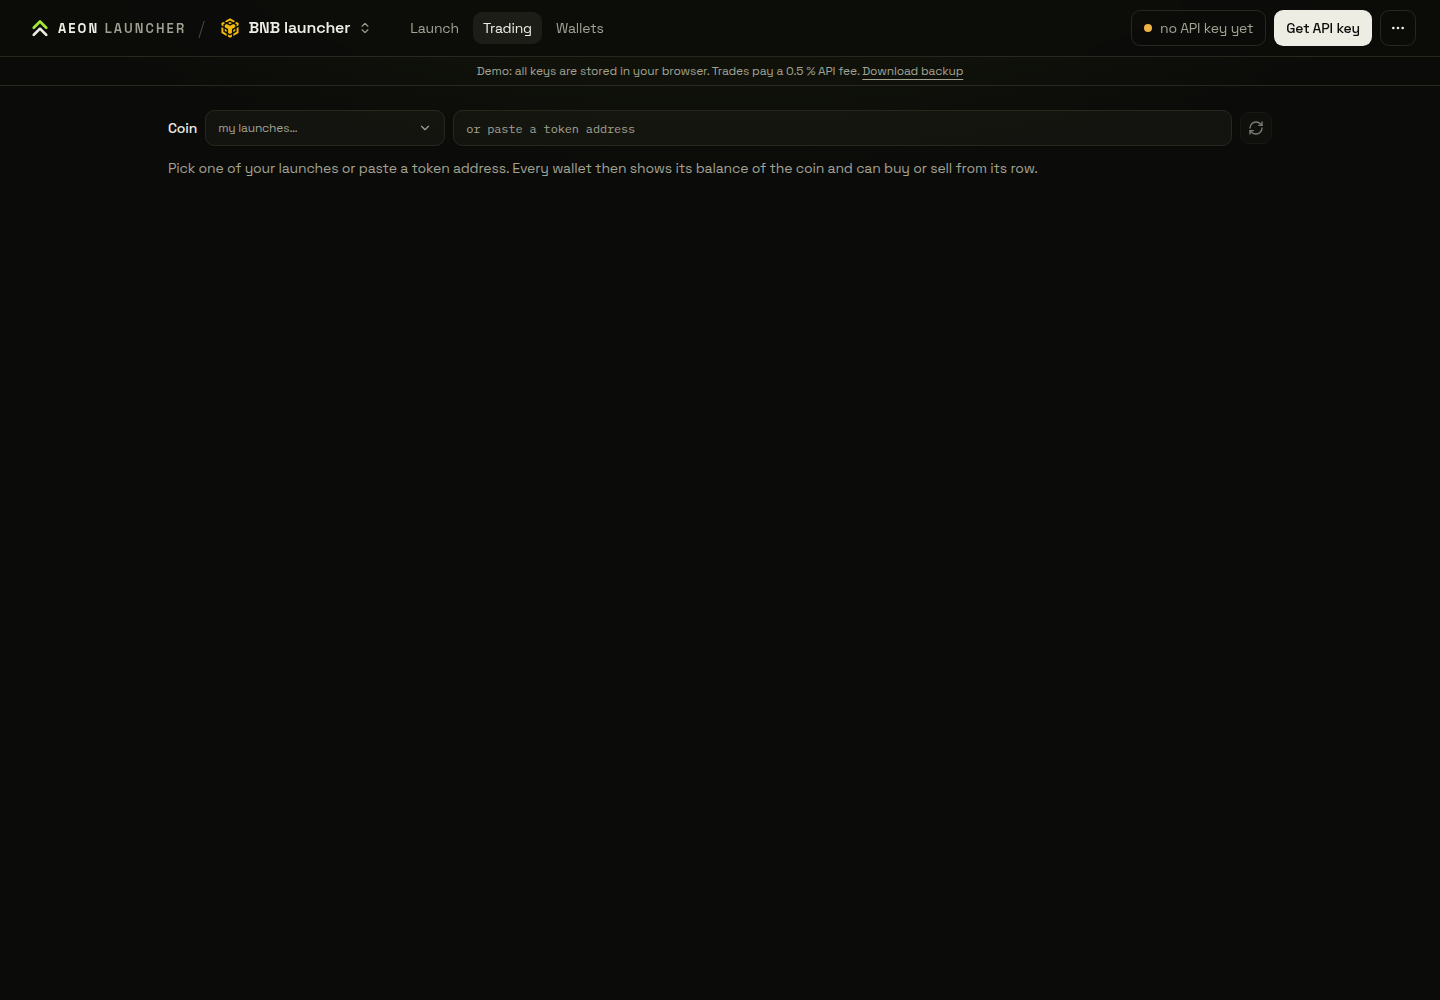
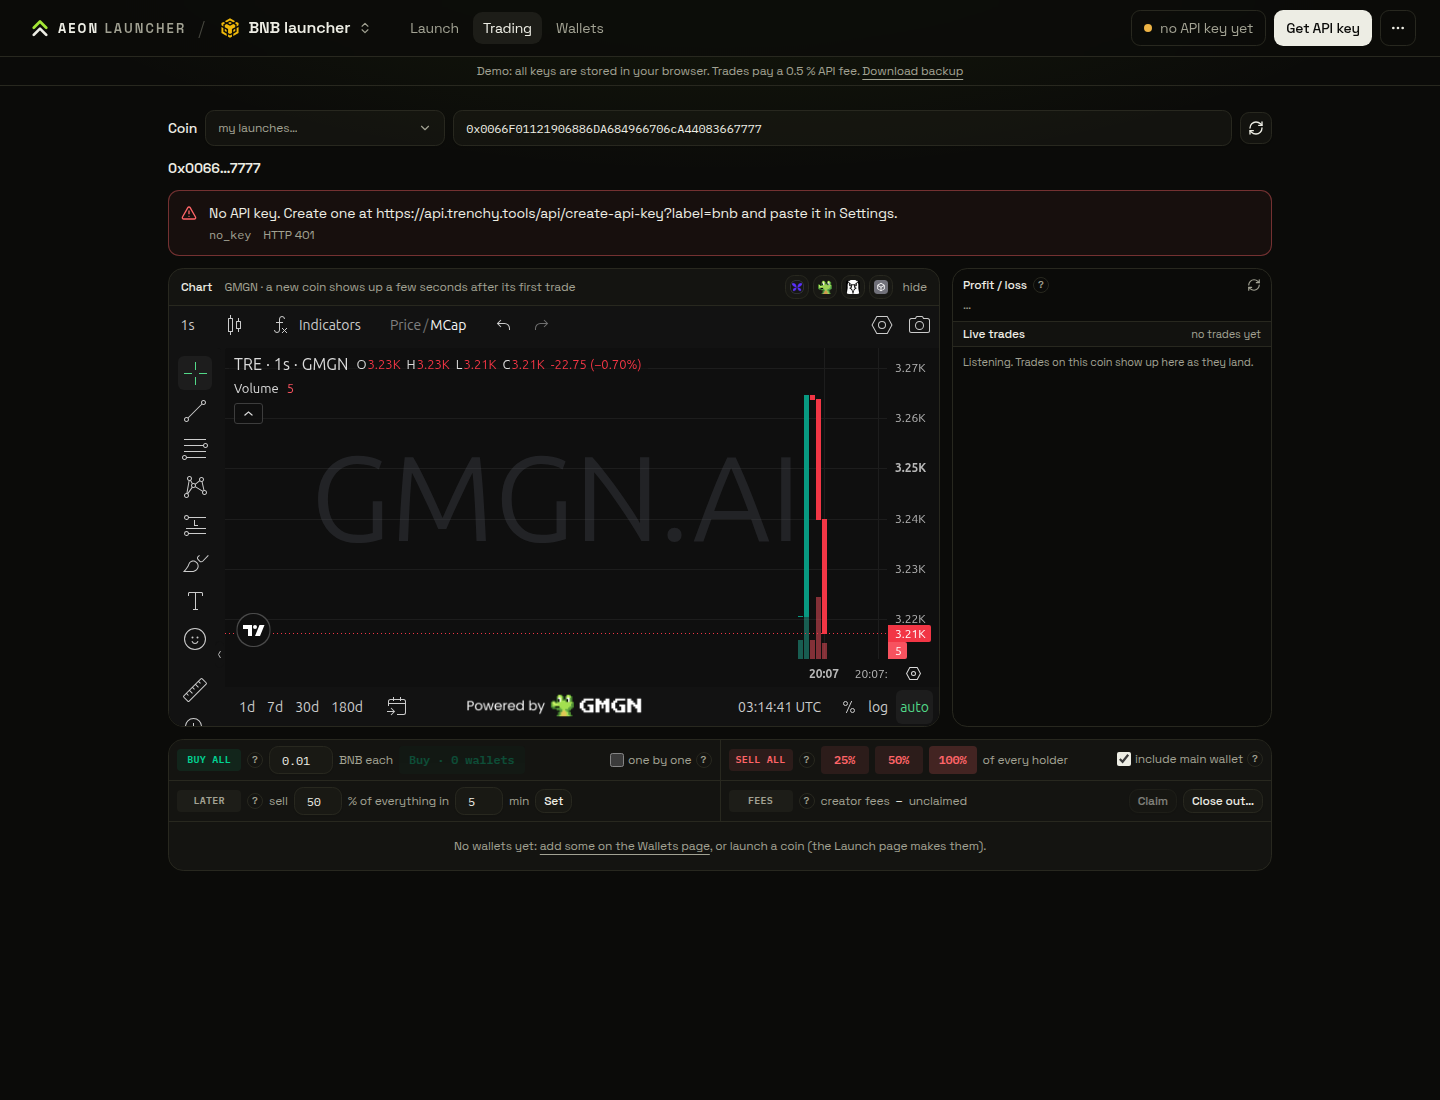
screenshots: wallets + trading

diff --git a/README.md b/README.md
@@ -72,6 +72,10 @@ Launch page:
 
 ![launch](.github/shot-launch.png)
 
+Wallets page:
+
+![wallets](.github/shot-wallets.png)
+
 Trading page:
 
 ![trading](.github/shot-trading.png)
